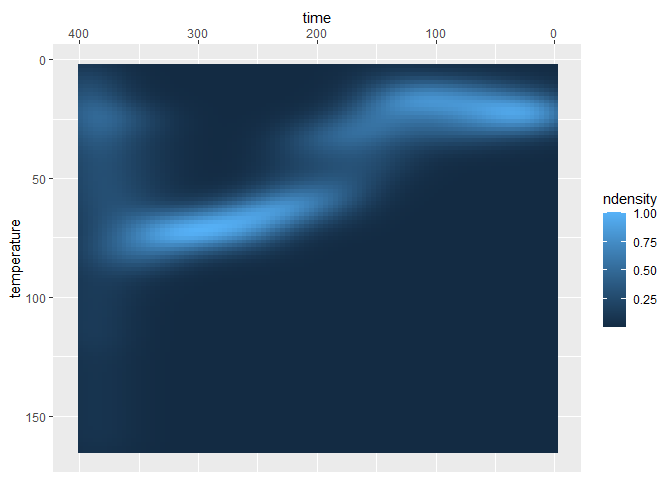
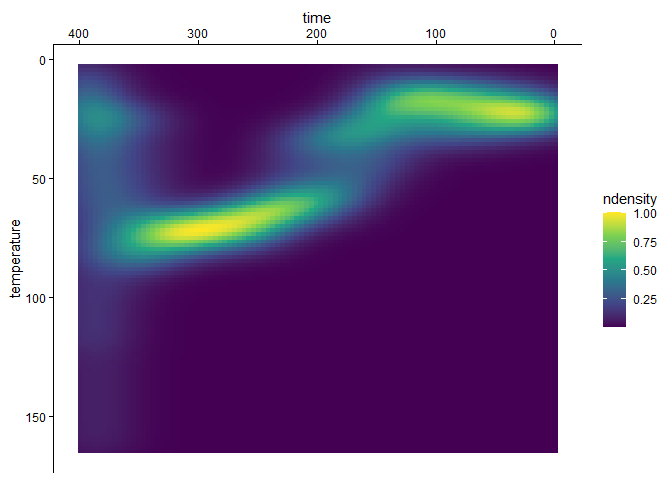
vignette edits

diff --git a/README.md b/README.md
@@ -13,13 +13,13 @@ coverage](https://codecov.io/gh/tobiste/thermochron/graph/badge.svg)](https://ap
 [![pkgdown](https://github.com/tobiste/thermochron/actions/workflows/pkgdown.yaml/badge.svg)](https://github.com/tobiste/thermochron/actions/workflows/pkgdown.yaml)
 <!-- badges: end -->
 
-The goal of thermochron is to provide tools to further analyze thermal
+The goal of {thermochron} is to provide tools to further analyze thermal
 history models in thermochronology, including estimating cooling path
 densities, and path families.
 
 ## Installation
 
-You can install the development version of thermochron from
+You can install the development version of {thermochron} from
 [GitHub](https://github.com/) with:
 
 ``` r
@@ -41,6 +41,9 @@ library(ggplot2)
 # load example dataset of a HeFTy model output
 path2myfile <- system.file("112-72_30_H1_50-inv.txt", package = "thermochron")
 tT_paths <- read_hefty(path2myfile)
+
+# set `theme_classic()` as the default ggplot theme
+theme_set(theme_classic())
 ```
 
 The HeFTy model contains the modeled paths, the initial model
@@ -53,10 +56,9 @@ the imported model `tT_paths`:
 
 ``` r
 # (Optional) Create a subset of interest of the data:
-tT_paths <- crop_paths(tT_paths, time = c(0, 400), temperature = c(0, 250))
+tT_paths_cropped <- crop_paths(tT_paths, time = c(0, 400), temperature = c(0, 250))
 
-
-tT_paths$paths |>
+tT_paths_cropped$paths |>
   ggplot(aes(time, temperature, color = Comp_GOF, group = segment)) +
   geom_path() +
   scale_color_viridis_c("GOF") +
@@ -69,9 +71,10 @@ tT_paths$paths |>
 The path density can be visualized using `plot_path_density_filled()`:
 
 ``` r
-plot_path_density_filled(tT_paths, geom = "raster") +
+plot_path_density_filled(tT_paths_cropped, geom = "raster") +
   scale_x_reverse(position = "top") +
-  scale_y_reverse()
+  scale_y_reverse() +
+  scale_fill_viridis_c()
 ```
 
 <img src="man/figures/README-density-1.png" width="100%" />
@@ -80,11 +83,11 @@ To cluster the data, the following steps are required:
 
 ``` r
 # Cluster the paths
-paths_cluster <- cluster_paths(tT_paths, k = 2)
+paths_cluster <- cluster_paths(tT_paths_cropped, k = 2)
 
 # Join with path dataset
 paths_clustered <- merge(
-  tT_paths$paths,
+  tT_paths_cropped$paths,
   paths_cluster,
   by = "segment"
 )
@@ -105,7 +108,7 @@ paths_clustered |>
   geom_path() +
   scale_x_reverse(position = "top") +
   scale_y_reverse() +
-  scale_color_viridis_d("Cluster")
+  scale_color_viridis_d("Cluster", begin = .1, end = .9)
 ```
 
 <img src="man/figures/README-plot2-1.png" width="100%" />
